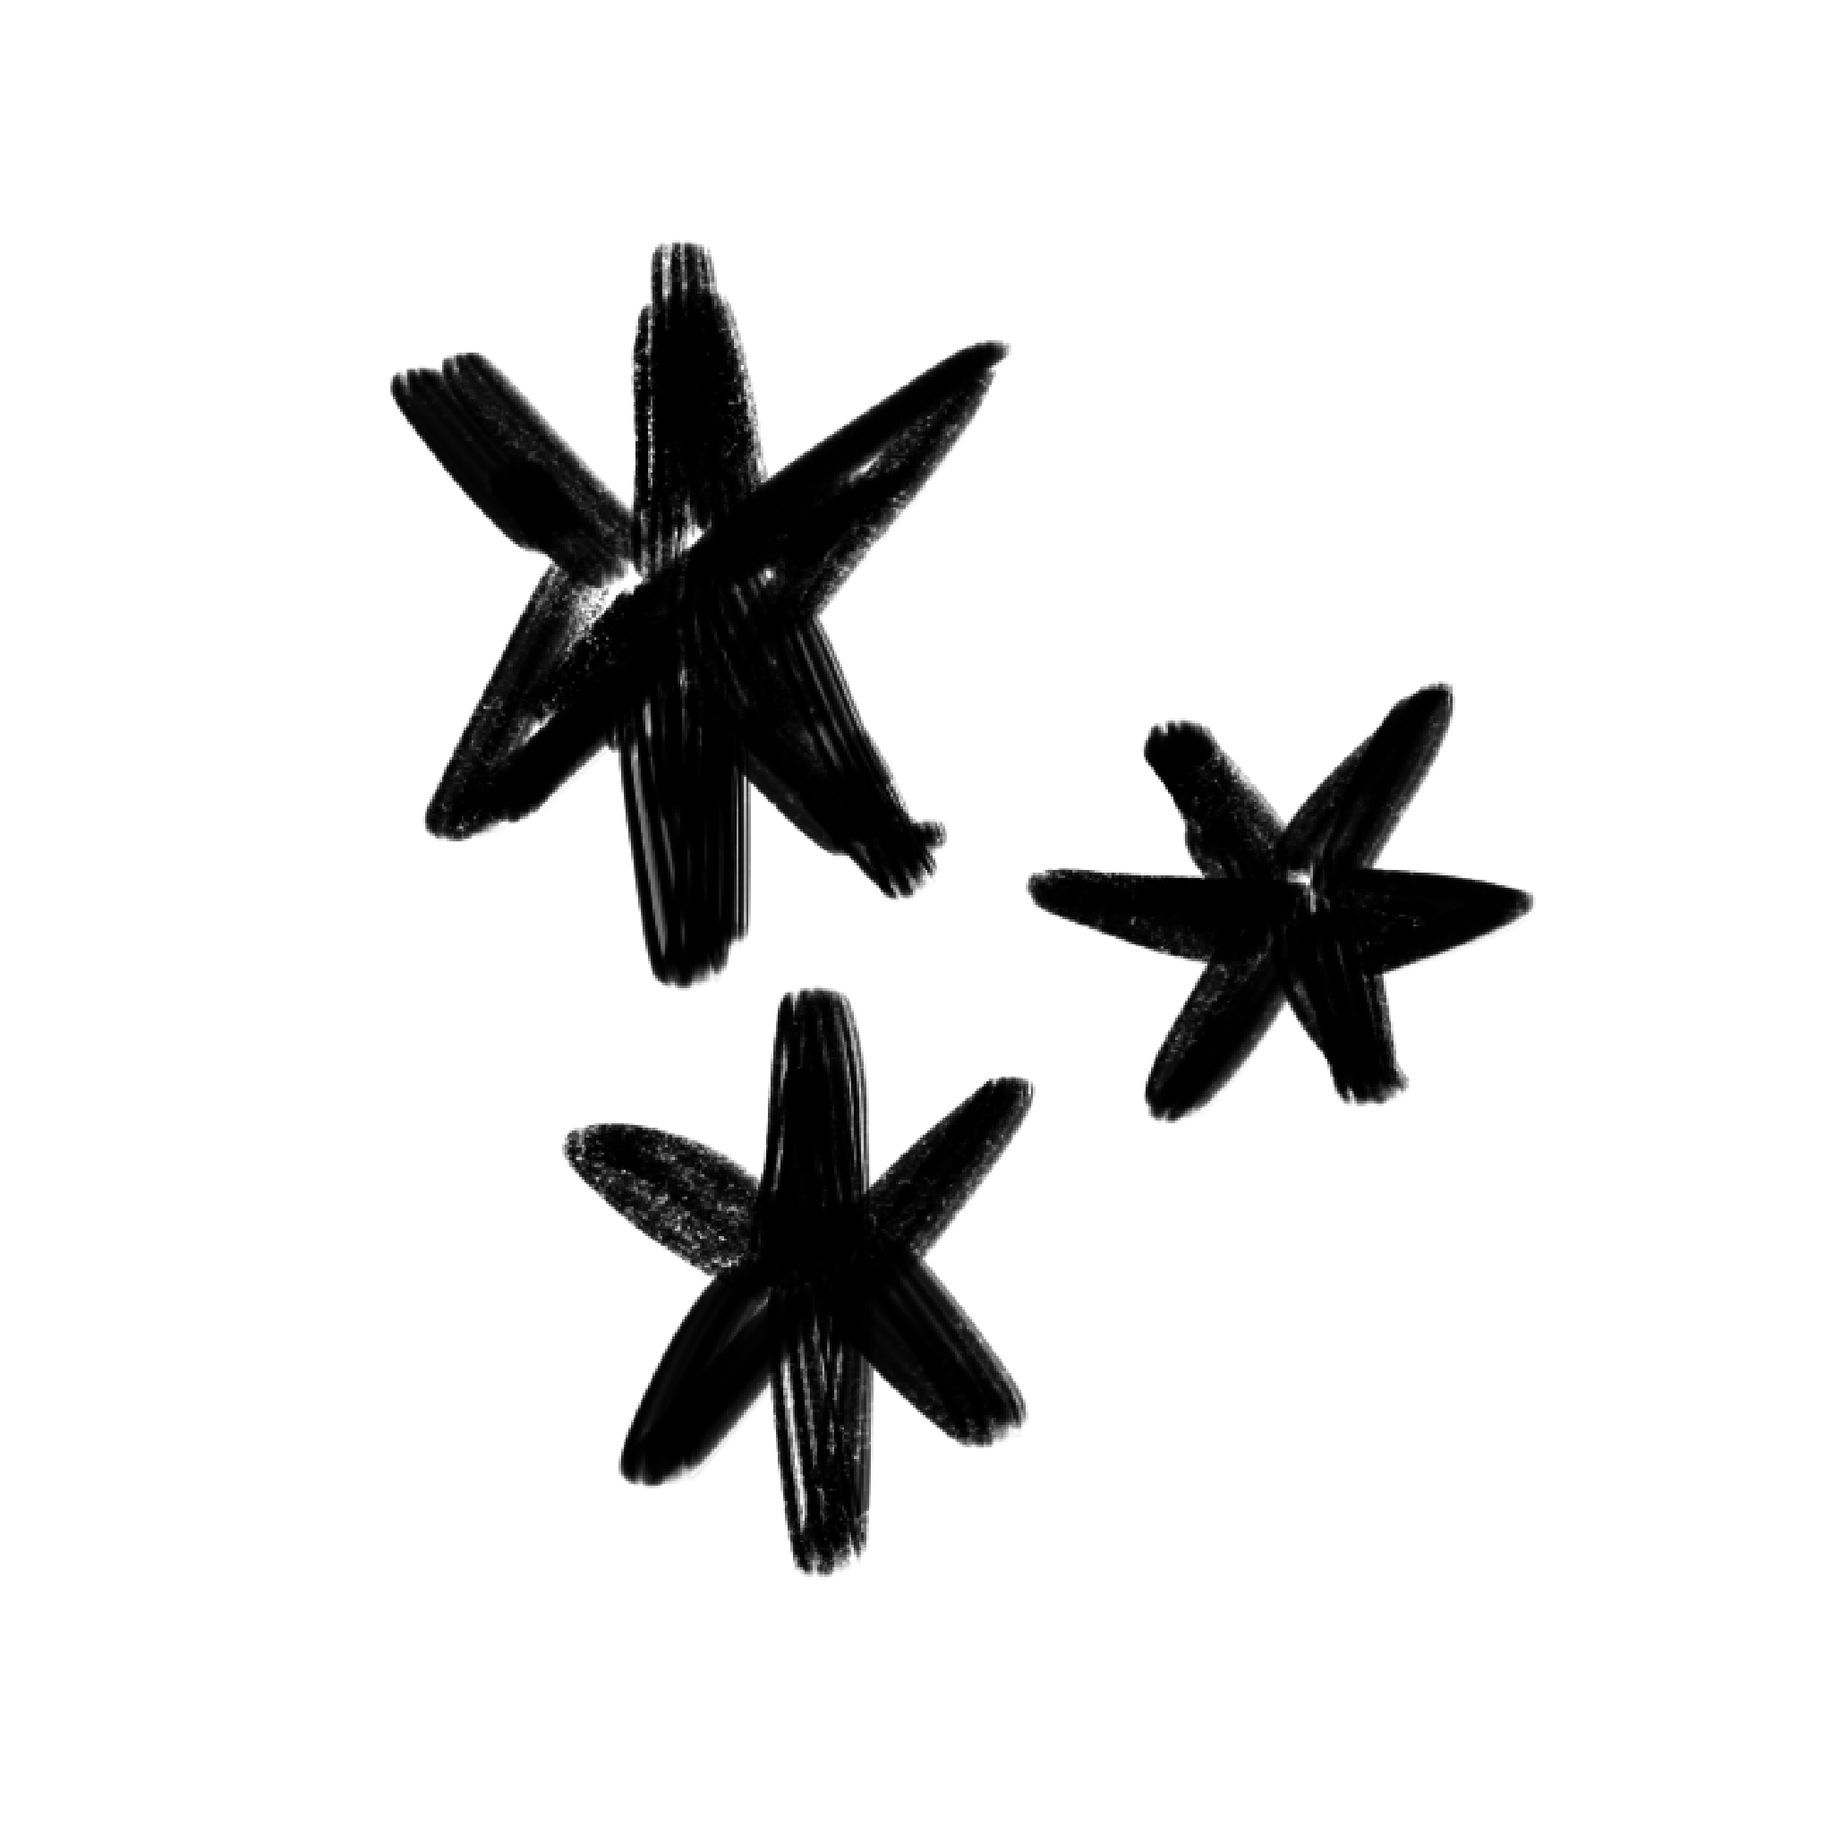
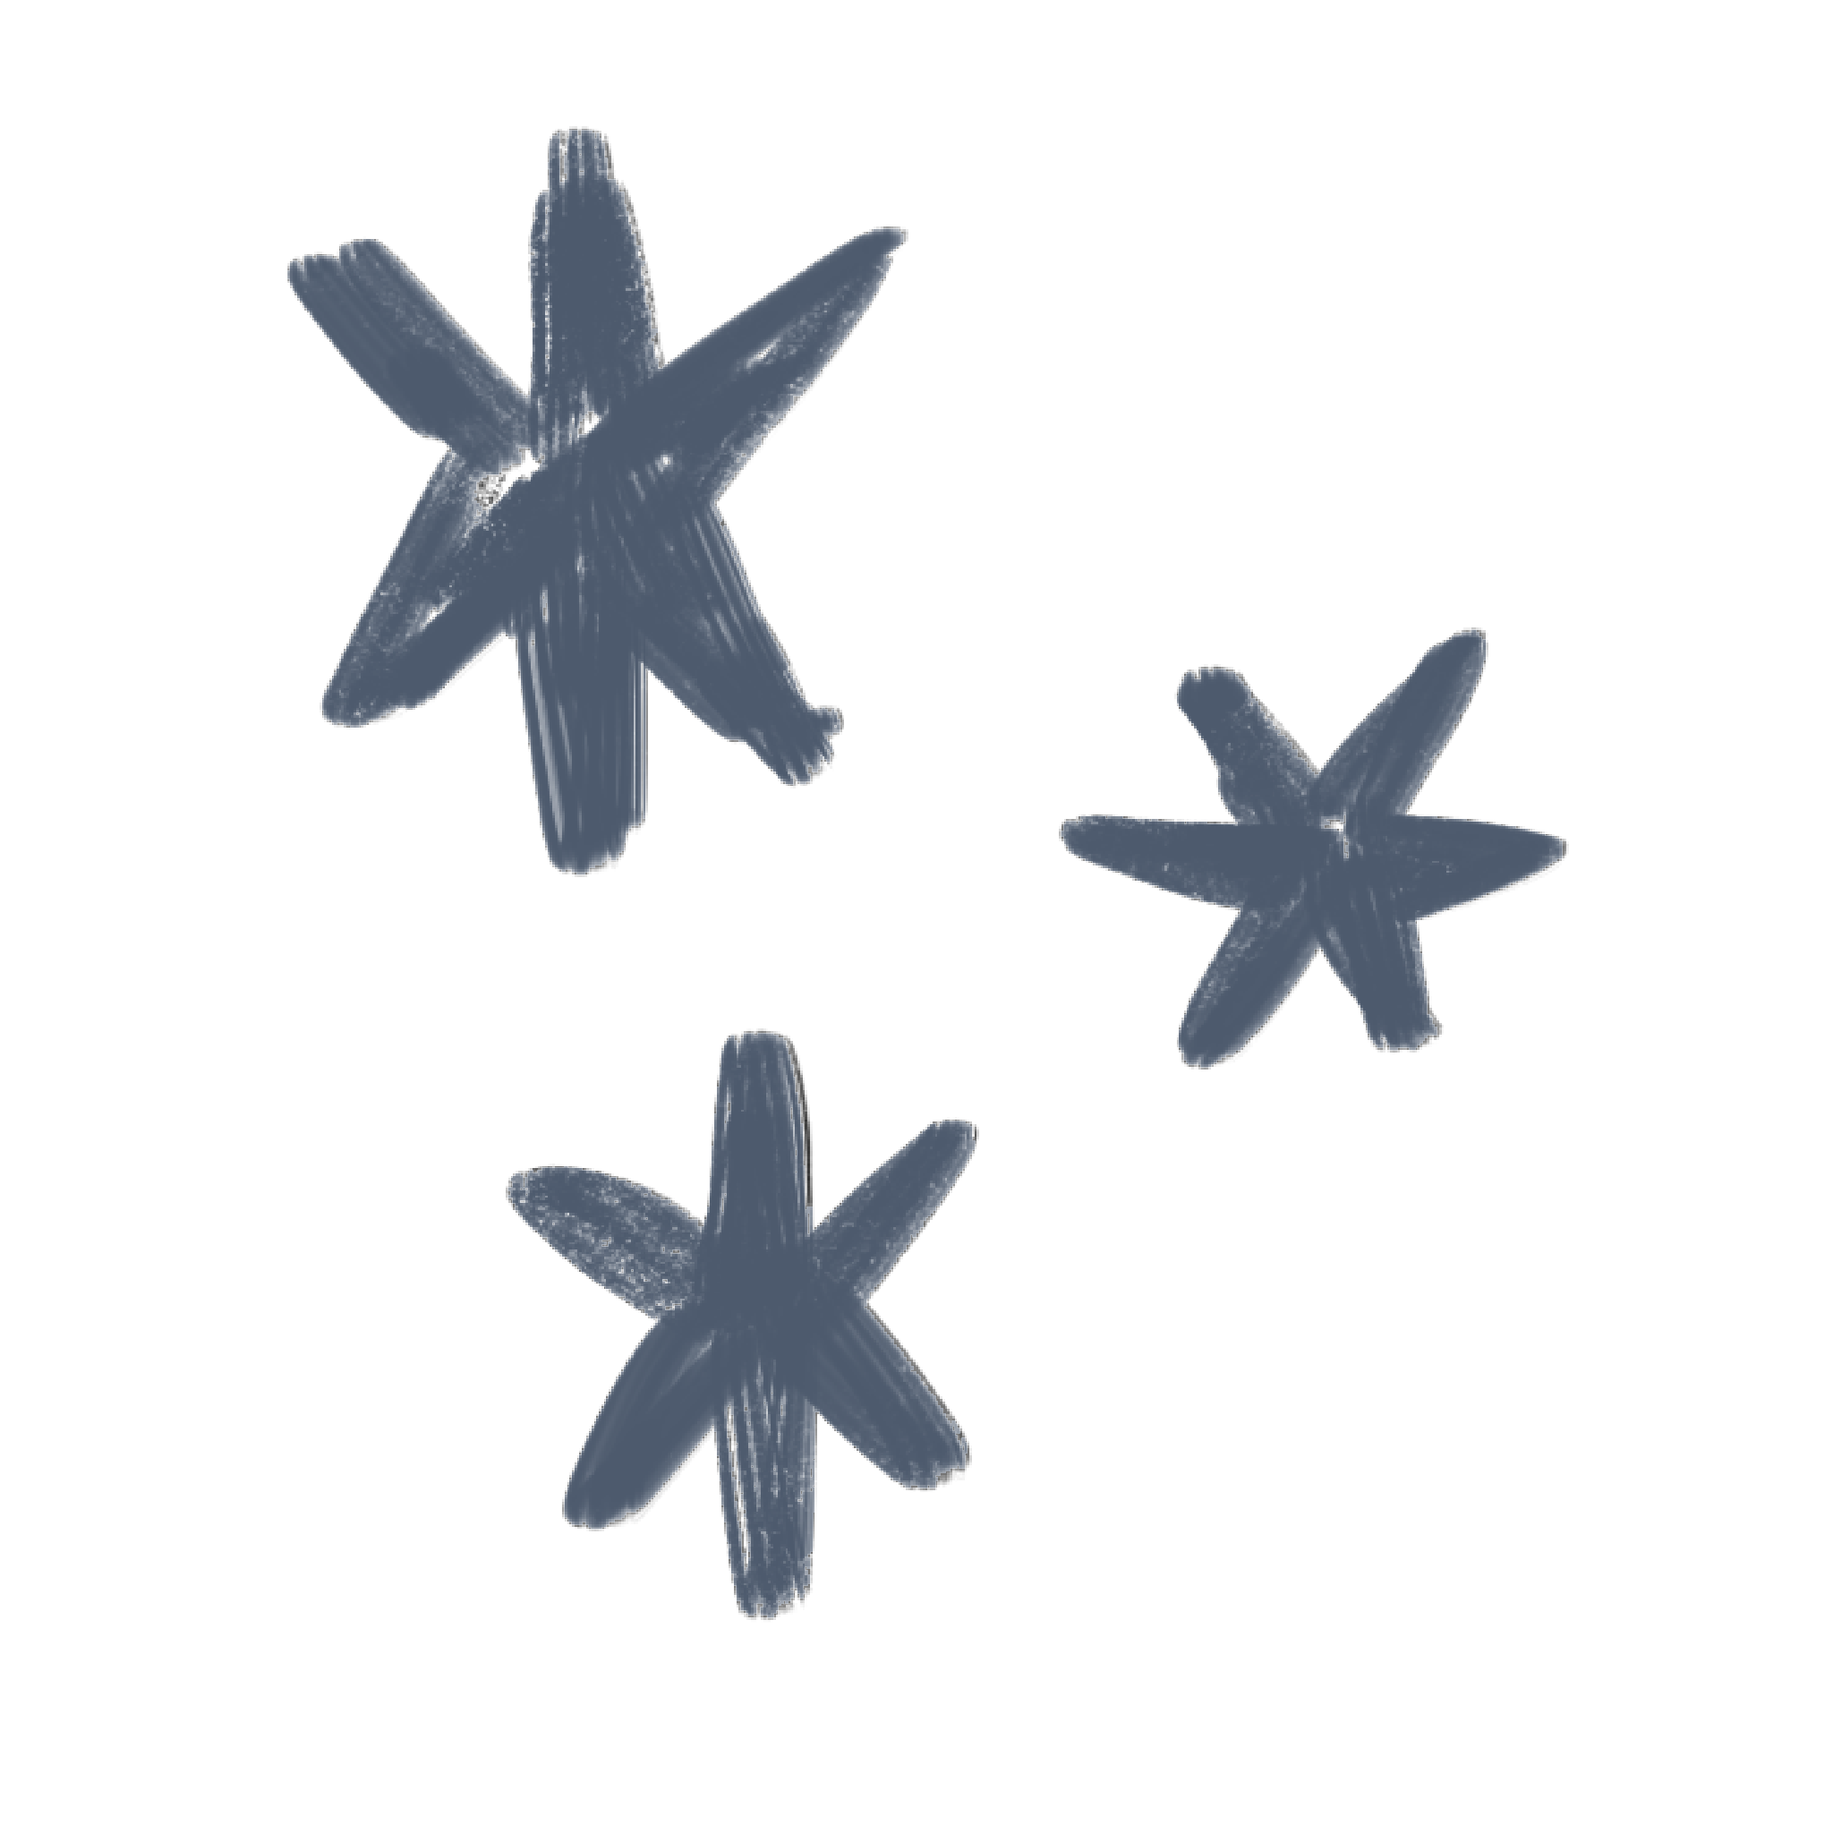
Update RSVP flow and switch to browserrouter

Changed region(s): [[0.1562, 0.0625, 0.5625, 0.5625], [0.2812, 0.5312, 0.5625, 0.9062], [0.5625, 0.3438, 0.875, 0.625]]

diff --git a/src/pages/RSVPPage/RSVPPage.js b/src/pages/RSVPPage/RSVPPage.js
@@ -17,11 +17,10 @@ function RSVPPage() {
   const [isPasswordRequired, setIsPasswordRequired] = useState(false);
   const [errorMessage, setErrorMessage] = useState('');
   const [isLoading, setIsLoading] = useState(false);
-  const [allowedPlusOnes, setAllowedPlusOnes] = useState(0);
 
   const [formData, setFormData] = useState({
     attendance: 'attending',
-    plus_one_names: '',
+    party_members: [],
     dietary_restrictions: '',
     questions: ''
   });
@@ -39,11 +38,10 @@ function RSVPPage() {
       if (status === 200) {
         setFormData({
           attendance: data.rsvp_status || 'attending',
-          plus_one_names: Array.isArray(data.plus_one_names) ? data.plus_one_names.join(', ') : (data.plus_one_names || ''),
+          party_members: data.party_members || [],
           dietary_restrictions: data.dietary_restrictions || '',
           questions: data.questions || ''
         });
-        setAllowedPlusOnes(data.allowed_plus_ones || 0);
         setStep(2);
       } else if (status === 401) {
         if (data.error === 'Password required') {
@@ -72,18 +70,48 @@ function RSVPPage() {
     }));
   };
 
+  const handlePartyMemberChange = (index, value) => {
+    setFormData(prev => {
+      const newPartyMembers = [...prev.party_members];
+      newPartyMembers[index] = { ...newPartyMembers[index], rsvp_status: value };
+      return { ...prev, party_members: newPartyMembers };
+    });
+  };
+
   const handleSubmit = async (e) => {
     e.preventDefault();
     setIsLoading(true);
     setErrorMessage('');
 
     try {
-      const { status, data } = await updateRSVP(name, password, formData);
+      // 1. Update primary guest
+      const updateRequests = [
+        updateRSVP(name, password, {
+          attendance: formData.attendance,
+          dietary_restrictions: formData.dietary_restrictions,
+          questions: formData.questions
+        })
+      ];
 
-      if (status === 200) {
+      // 2. Update other party members who are not "pending"
+      formData.party_members.forEach(member => {
+        if (member.rsvp_status !== 'pending') {
+          updateRequests.push(
+            updateRSVP(member.name, password, {
+              attendance: member.rsvp_status,
+            })
+          );
+        }
+      });
+
+      const results = await Promise.all(updateRequests);
+      const allSuccessful = results.every(res => res.status === 200);
+
+      if (allSuccessful) {
         setStep(3);
       } else {
-        setErrorMessage(data.error || 'Failed to update RSVP.');
+        const failed = results.find(res => res.status !== 200);
+        setErrorMessage(failed?.data?.error || 'Failed to update some RSVP statuses.');
       }
     } catch (error) {
       setErrorMessage('Network error. Please try again.');
@@ -133,6 +161,9 @@ function RSVPPage() {
         {step === 2 && (
           <StepContainer centered>
             <FormContainer onSubmit={handleSubmit}>
+              <HelperText style={{ textAlign: 'center', marginBottom: '20px', fontSize: '1.1rem', color: '#666' }}>
+                You can change your RSVP status at any time until April 5th.
+              </HelperText>
               <FormGroup>
                 <FormLabel>Can you make it to the wedding?</FormLabel>
                 <StyledSelect
@@ -146,21 +177,20 @@ function RSVPPage() {
                 </StyledSelect>
               </FormGroup>
 
-              {allowedPlusOnes > 0 && (
-                <FormGroup>
-                  <FormLabel>Name of additional guests in your party (you can bring up to {allowedPlusOnes} plus one{allowedPlusOnes > 1 ? 's' : ''})</FormLabel>
-                  <StyledInput
-                    as="input"
-                    style={{ textAlign: 'left', borderBottom: '1px solid #ddd', padding: '10px' }}
-                    name="plus_one_names"
-                    placeholder="Justin Time, Chris P. Bacon, etc."
-                    value={formData.plus_one_names}
-                    onChange={handleInputChange}
+              {formData.party_members.map((member, index) => (
+                <FormGroup key={index}>
+                  <FormLabel>Can {member.name} make it to the wedding?</FormLabel>
+                  <StyledSelect
+                    value={member.rsvp_status}
+                    onChange={(e) => handlePartyMemberChange(index, e.target.value)}
                     disabled={isLoading}
-                  />
-                  <HelperText>Separate names with commas</HelperText>
+                  >
+                    <option value="attending">They can make it</option>
+                    <option value="not_attending">They can't make it</option>
+                    <option value="pending">Pending</option>
+                  </StyledSelect>
                 </FormGroup>
-              )}
+              ))}
 
               <FormGroup>
                 <FormLabel>Any dietary restrictions?</FormLabel>
@@ -176,7 +206,7 @@ function RSVPPage() {
               </FormGroup>
 
               <FormGroup>
-                <FormLabel>Any other questions?</FormLabel>
+                <FormLabel>Any other questions? Any issues with finding lodging?</FormLabel>
                 <StyledTextArea
                   name="questions"
                   placeholder="Let us know and we'll be happy to get back to you!"

diff --git a/src/pages/HotelsPage/HotelsPage.js b/src/pages/HotelsPage/HotelsPage.js
@@ -1,15 +1,13 @@
 import { useState, useEffect } from 'react';
 import NavBar from '../../components/NavBar/NavBar';
-import chicagoDoodle from '../../images/chicago_doodle.png';
+import hotelDoodle from '../../images/hotel_doodle.png';
 import hotelImage from '../../images/hotel.jpg';
 import {
     PageContainer,
     HeaderContainer,
     HeaderTextContainer,
     PageTitle,
-    TitleImage,
     TitleContainer,
-    InlineTitleImage,
     PageSubtitle,
     HotelSection,
     HotelBlockHeader,
@@ -22,7 +20,11 @@ import {
     BookButton,
     ContactText,
     HotelImageContainer,
-    HotelImage
+    HotelImage,
+    OtherOptionsSection,
+    NeighborhoodList,
+    NeighborhoodItem,
+    NeighborhoodName
 } from './styled';
 
 function HotelsPage() {
@@ -43,13 +45,11 @@ function HotelsPage() {
                     <HeaderTextContainer>
                         <TitleContainer>
                             <PageTitle>Lodging</PageTitle>
-                            <InlineTitleImage src={chicagoDoodle} alt="Chicago Doodle" />
                         </TitleContainer>
                         <PageSubtitle>
                             We have reserved a block of rooms for our guests at the Hampton Inn.
                         </PageSubtitle>
                     </HeaderTextContainer>
-                    <TitleImage src={chicagoDoodle} alt="Chicago Doodle" />
                 </HeaderContainer>
 
                 <HotelImageContainer>
@@ -116,6 +116,40 @@ function HotelsPage() {
                     <ContactText>
                         If you run into issues when booking, please reach out to us!
                     </ContactText>
+
+                    <OtherOptionsSection>
+                        <HotelBlockHeader>OTHER OPTIONS</HotelBlockHeader>
+                        <AddressInfo>
+                            A massive restaurant industry convention is happening in Chicago during the weekend of our wedding, making hotel prices very high. If possible, book your accommodations soon.
+                        </AddressInfo>
+
+                        <ContentBlock>
+                            <AddressInfo style={{ marginBottom: '20px' }}>
+                                If you are interested in finding accommodations on your own: Rather than staying in the immediate vicinity of Garfield Park Conservatory, we recommend the following neighborhoods if you’re unfamiliar with Chicago to prioritize safety and proximity to “downtown” tourist attractions:
+                            </AddressInfo>
+                            <NeighborhoodList>
+                                <NeighborhoodItem>
+                                    <NeighborhoodName>West Loop/Fulton Market: </NeighborhoodName>
+                                    This is the neighborhood where we live. It is relatively close to the wedding venue and is full of the trendiest restaurants and bars, though they can be expensive.
+                                </NeighborhoodItem>
+                                <NeighborhoodItem>
+                                    <NeighborhoodName>The Loop: </NeighborhoodName>
+                                    Walk to classic Chicago attractions like “the Bean” in Millennium Park, the Art Institute of Chicago, and the lakefront. The Loop feels more touristy and there can be fewer food options available at night.
+                                </NeighborhoodItem>
+                                <NeighborhoodItem>
+                                    <NeighborhoodName>Streeterville and River North: </NeighborhoodName>
+                                    These two neighborhoods are divided by the Magnificent Mile, which is full of shopping, and a good mix of restaurants and other attractions, including the Riverwalk.
+                                </NeighborhoodItem>
+                            </NeighborhoodList>
+                        </ContentBlock>
+
+                        <ContentBlock>
+                            <ContentHeader>Airbnbs and Residential Areas</ContentHeader>
+                            <AddressInfo style={{ marginBottom: '20px' }}>
+                                If you are looking at Airbnbs in more residential areas (not a bad option considering the high hotel prices!), friends and family have enjoyed living or staying in Bridgeport (one of the city’s most diverse neighborhoods, with a large Chinese population) and Pilsen (home to a large Mexican-American population with amazing restaurants and the National Museum of Mexican Art). Lincoln Park is a peaceful residential area close to many green spaces, the lakefront, and the zoo, and West Town and Wicker Park are trendy areas with fun vintage stores and ample food options. However, all of these areas are further from downtown. We love exploring Chicago’s neighborhoods, but <b>please do research into the safety of each area where you’re considering staying</b>. Please reach out if you have questions—we’d love to help!
+                            </AddressInfo>
+                        </ContentBlock>
+                    </OtherOptionsSection>
                 </HotelSection>
             </PageContainer>
         </>

diff --git a/src/pages/HotelsPage/styled.js b/src/pages/HotelsPage/styled.js
@@ -149,18 +149,53 @@ export const BookButton = styled.a`
     display: inline-block;
     background-color: ${accentColor};
     color: white;
-    padding: 12px 30px;
-    border-radius: 4px;
+
+    border: 1px solid ${accentColor};
+    padding: 15px 100px;
+    font-size: 1.2rem;
+    font-family: 'Jost', sans-serif;
+    font-weight: 400;
+    text-transform: uppercase;
+    box-shadow: 2px 2px 2px rgba(0, 0, 0, 0.05);
     text-decoration: none;
-    font-weight: 500;
-    font-size: 1.1rem;
-    margin-top: 20px;
-    transition: all 0.3s ease;
+    text-align: center;
+
+    transition: background-color 0.5s ease;
 
     &:hover {
-        opacity: 0.9;
-        transform: translateY(-2px);
+        cursor: pointer;
+        background-color: white;
+        color: ${accentColor};
     }
+
+    @media (max-width: ${mobileBreakpoint}) {
+        padding: 15px 50px;
+        font-size: 1.2rem;
+        display: block;
+    }
+`
+
+export const OtherOptionsSection = styled.div`
+    margin-top: 80px;
+    border-top: 1px solid rgba(0, 0, 0, 0.1);
+    padding-top: 60px;
+`
+
+export const NeighborhoodList = styled.div`
+    display: flex;
+    flex-direction: column;
+    gap: 30px;
+    margin-top: 30px;
+`
+
+export const NeighborhoodItem = styled.div`
+    line-height: 1.6;
+    font-size: 1.05rem;
+`
+
+export const NeighborhoodName = styled.span`
+    font-weight: 600;
+    color: ${accentColor};
 `
 
 export const ContactText = styled.p`

diff --git a/src/services/api.js b/src/services/api.js
@@ -17,11 +17,6 @@ export const checkRSVP = async (name, password = '') => {
 };
 
 export const updateRSVP = async (name, password = '', formData) => {
-    // Convert plus_one_names string to list if it's a string
-    const plusOneList = typeof formData.plus_one_names === 'string'
-        ? formData.plus_one_names.split(',').map(n => n.trim()).filter(n => n)
-        : formData.plus_one_names;
-
     const response = await fetch(`${API_BASE_URL}/rsvp/update`, {
         method: 'POST',
         headers: {
@@ -31,7 +26,6 @@ export const updateRSVP = async (name, password = '', formData) => {
             name: name.trim(),
             password: password.trim(),
             rsvp_status: formData.attendance,
-            plus_one_names: plusOneList,
             dietary_restrictions: formData.dietary_restrictions,
             questions: formData.questions
         }),

diff --git a/src/index.js b/src/index.js
@@ -5,7 +5,7 @@ import './index.css';
 import reportWebVitals from './reportWebVitals';
 import {
   Routes, Route, HashRouter,
-  // BrowserRouter - Replace HashRouter
+  BrowserRouter
 } from 'react-router-dom';
 import HomePage from './pages/HomePage/HomePage';
 import RSVPPage from './pages/RSVPPage/RSVPPage';
@@ -21,7 +21,7 @@ const root = ReactDOM.createRoot(
   document.getElementById('root')
 );
 root.render(
-  <HashRouter >
+  <BrowserRouter >
     <ScrollToTop />
     <Routes>
       <Route path="/">
@@ -50,7 +50,7 @@ root.render(
       </Route>
       <Route path="*" element={<HomePage />} />
     </Routes>
-  </HashRouter >
+  </BrowserRouter >
 
 );
 
